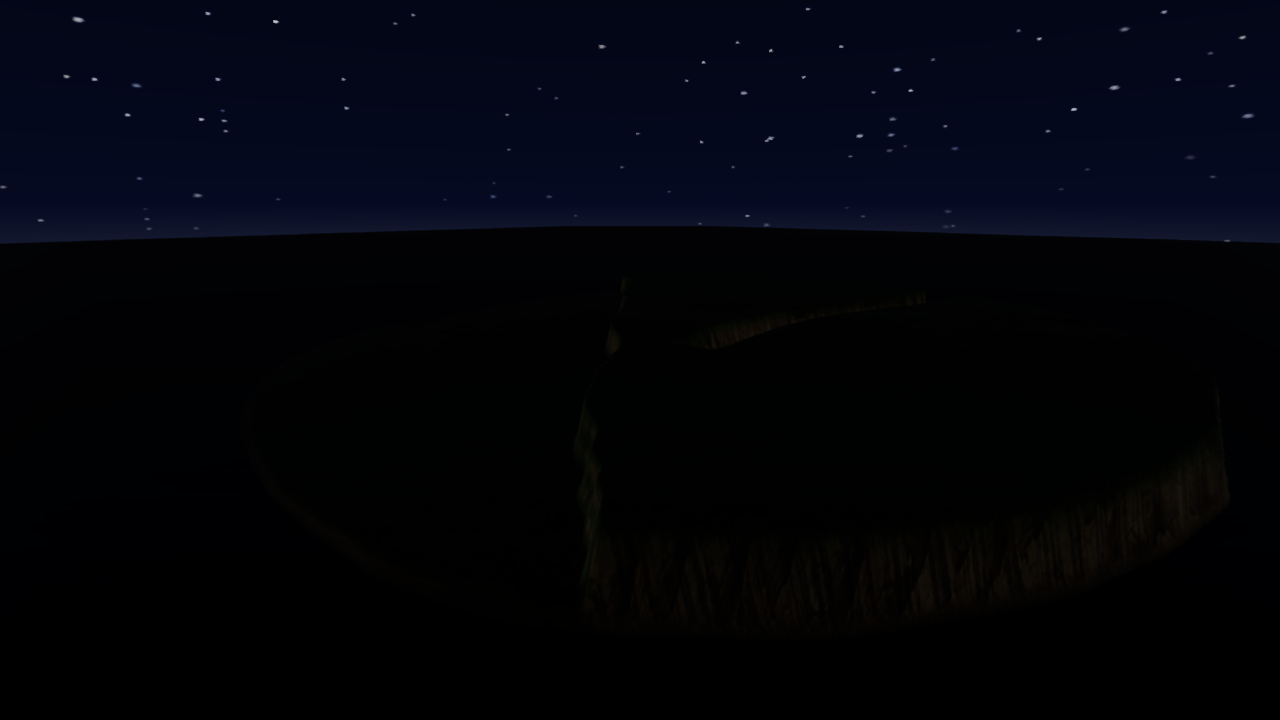
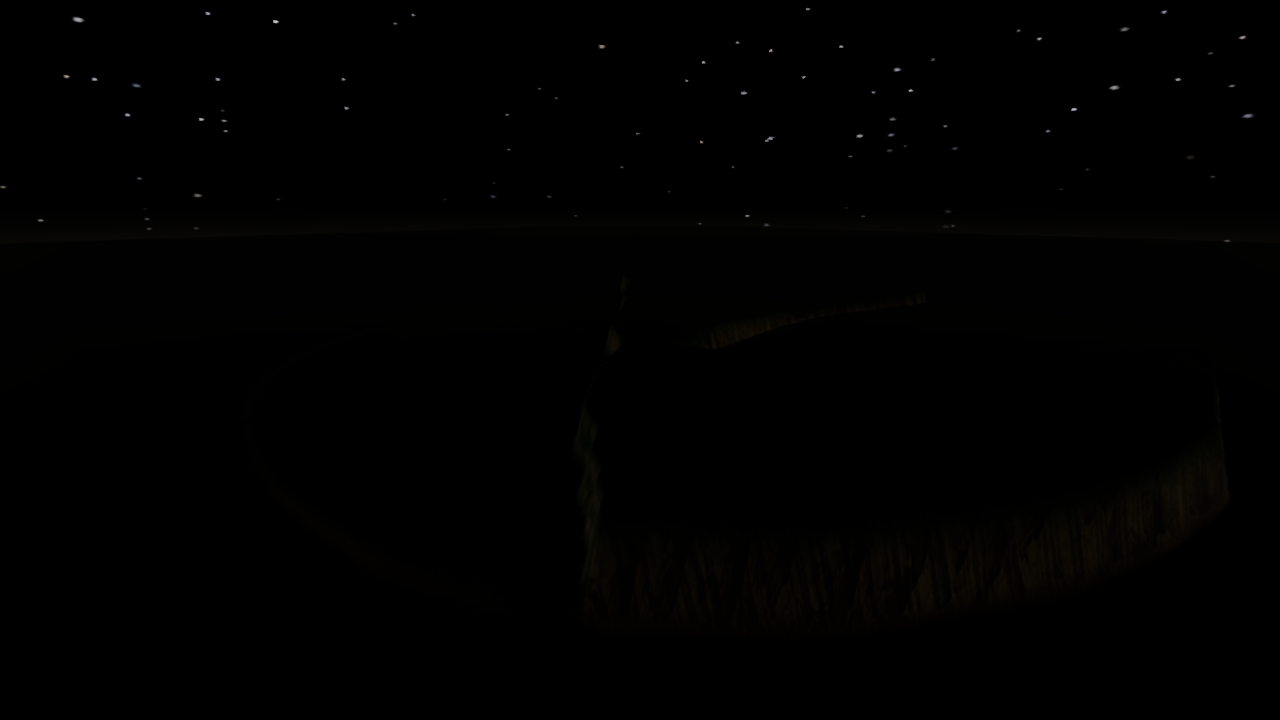
[sibling] P3 polish: TRUE BLACK night sky (Tim's canon) + integrator's RTS camera rework made buildable
Night zenith/horizon -> pure black; stars own the night (shots/echotropolis_p3_night.png).
Also lands the integrator session's in-flight RTS-grade camera retune (grab-the-ground
pan, direct RMB orbit, exponential zoom, radius/focus/height clamps) and migrates the
one stale applyOrbitCamera call site it left at line 421 (freeLook fields were removed)
so the tree builds again — repeating-identical C2039 x3, not the CPU.

Changed region(s): [[0.0, 0.0306, 1.0, 0.3361]]

diff --git a/app/world_hosts/host_echotropolis.cpp b/app/world_hosts/host_echotropolis.cpp
@@ -11,18 +11,23 @@
 // scene/teardown lifecycle, but there is no physics/streamer here — water and sky
 // are device-internal passes, so the loop just poses the camera and renders.
 //
-// ORBIT CAMERA (SPACECRAFT_INTEGRATION §2 doctrine):
+// ORBIT CAMERA (RTS-grade feel — retuned after live playtest):
 //   - orbit a focus point on the sea plane (y=0), camera pitched DOWN toward it;
-//   - critically-damped springs on focus XZ, yaw, pitch AND radius (no snapping);
-//   - pitch (elevation above the sea) clamped 2°..32°, default 17°;
-//   - wheel zoom with momentum (impulse -> zoom velocity -> radius, eased);
-//   - hold-RMB free-look: detaches from the orbit (snappy look around the focus)
-//     and eases BACK to the orbit angle on release;
-//   - MMB-drag or WASD pans the focus across the sea with inertia (glide on release).
+//   - LMB/MMB-drag PANS with a "grab the ground" 1:1 gain that scales with orbit
+//     radius (groundPerPixel) so the terrain tracks the cursor at any zoom;
+//   - RMB-drag ORBITS (yaw/pitch) directly at ~0.25°/px — no ease-back detach;
+//   - wheel zoom is EXPONENTIAL (~12% radius/notch), no momentum;
+//   - light critically-damped smoothing (~0.10-0.14s) so nothing snaps or floats;
+//   - CLAMPS: radius 100m..6000m, focus to island bounds +1km, camera height never
+//     below waterline+5m (also stops flying outside the world / seeing the sea slab);
+//   - pitch (elevation above the sea) clamped 2°..32°, default 14°;
 //   - Every feel constant lives in one CameraOptions block (the F1 settings scaffold).
 #include "world_host_common.h"
 #include "../tod.h"
 #include "../env_art.h"
+
+#include <stb_image.h>   // stbi_load_16 (impl compiled in engine/asset/ModelLoader.cpp)
+#include <vector>
 
 namespace x3 { namespace apphost {
 
@@ -50,6 +55,17 @@ inline float smoothDampAngle(float cur, float target, float& vel, float smoothTi
     return smoothDamp(cur, cur + d, vel, smoothTime, dt);
 }
 
+inline float clampf(float v, float lo, float hi) { return v < lo ? lo : (v > hi ? hi : v); }
+
+// "Grab the ground" pan gain: world metres of GROUND spanned per screen pixel at
+// the focus, from the perspective vertical coverage 2*radius*tan(fovV/2)/screenH.
+// A drag scales its pixel delta by this so the terrain tracks the cursor ~1:1 (RTS
+// map-drag) at any zoom, instead of a fixed rate unusable across the 100m..6km range.
+inline float groundPerPixel(float radius, float fovDeg, int screenH) {
+    const float fovV = fovDeg * 3.14159265f / 180.0f;
+    return (2.0f * radius * std::tan(fovV * 0.5f)) / (float)(screenH > 0 ? screenH : 1);
+}
+
 // TU-local scroll accumulator (only one --world host ever runs at a time). GLFW
 // scroll is event-driven, so we sum deltas here and drain them once per frame.
 double g_scrollY = 0.0;
@@ -59,23 +75,30 @@ void scrollCB(GLFWwindow*, double /*xoff*/, double yoff) { g_scrollY += yoff; }
 // (D1/D3 doctrine). F2 hangs a settings UI + remap table on these fields.
 struct CameraOptions {
     float fovDeg        = 60.0f;    // vertical FOV
-    float lookSens      = 0.0045f;  // rad per pixel (free-look / orbit rotate)
-    float panSpeed      = 0.9f;     // world m/s of focus travel per unit input
-    float wasdPan       = 55.0f;    // WASD focus pan speed (m/s at unit radius scale)
-    float zoomFrac      = 0.55f;    // radius impulse per wheel notch, as a fraction
-                                    // of CURRENT radius (island vistas span 40m..6.5km
-                                    // — a fixed step is unusable across that range)
-    // Critically-damped smoothTimes (s) — the inertia per channel.
-    float smoothFocus   = 0.22f;
-    float smoothYaw     = 0.18f;
-    float smoothPitch   = 0.18f;
-    float smoothRadius  = 0.28f;
-    // Decays for the momentum accumulators (per-frame multipliers scaled by dt).
-    float zoomDecay     = 4.5f;     // higher = zoom glide stops sooner
-    float panDecay      = 3.2f;     // higher = pan glide stops sooner
-    // Radius (orbit distance) limits.
-    float minRadius     = 40.0f;
-    float maxRadius     = 6500.0f;
+    // RMB orbit-rotate: direct degrees-per-pixel (converted to rad in the loop).
+    float orbitDegPerPx = 0.25f;    // ~0.25°/px — RTS look feel, no heavy easing
+    // Q/E keyboard orbit-yaw rate (rad/s) — ~90°/s, Q counter-clockwise, E clockwise.
+    float keyYawRate    = 1.5708f;  // pi/2 rad/s
+    // WASD pan speed as a FRACTION of the orbit radius per second (so keyboard pan
+    // covers the frame at a consistent visual rate whether zoomed in or out): 0.5 ->
+    // cross the 4km island in ~3s at 3km out, street-scale (~100 m/s) at 200m.
+    float wasdPanFrac   = 0.50f;
+    // Wheel zoom: EXPONENTIAL — a constant fraction of the radius per notch.
+    float zoomPerNotch  = 0.12f;    // 12% radius per wheel notch (multiplicative)
+    // Critically-damped smoothTimes (s) — snappy RTS response (no float/overshoot).
+    float smoothFocus   = 0.12f;
+    float smoothYaw     = 0.10f;
+    float smoothPitch   = 0.10f;
+    float smoothRadius  = 0.14f;
+    // Radius (orbit distance) limits — island stays >= ~1/3 of frame at maxRadius.
+    float minRadius     = 100.0f;
+    float maxRadius     = 6000.0f;
+    // Focus clamp: island half-extent (~2048 m) + 1 km margin, so panning can't
+    // drift off into empty sea and lose the island.
+    float focusLimit    = 3048.0f;
+    // Camera never below waterline + this many metres (also blocks flying under the
+    // world and seeing the sea-slab underside / fog dome).
+    float minCamHeight  = 5.0f;
 };
 
 // Orbit rig state (targets + smoothed values + spring velocities).
@@ -91,11 +114,6 @@ struct OrbitRig {
     float sYaw = 3.93f, sPitch = 0.2443f, sRadius = 2800.0f;
     // Spring velocities.
     float vFocusX = 0.0f, vFocusZ = 0.0f, vYaw = 0.0f, vPitch = 0.0f, vRadius = 0.0f;
-    // Momentum accumulators (for glide/inertia after the input stops).
-    float panVelX = 0.0f, panVelZ = 0.0f, zoomVel = 0.0f;
-    // Free-look (hold-RMB) detach state.
-    bool  freeLook = false;
-    float freeYaw = 3.93f, freePitch = 0.2443f;
 };
 
 constexpr float kPitchMin = 0.0349f;   //  2 degrees
@@ -103,11 +121,14 @@ constexpr float kPitchMax = 0.5585f;   // 32 degrees
 
 inline float clampPitch(float p) { return p < kPitchMin ? kPitchMin : (p > kPitchMax ? kPitchMax : p); }
 
-// Pose the engine FPS camera FROM the orbit rig (looking down at the focus).
-// `useYaw/usePitch` let the free-look path drive the actual look angles directly
-// while the underlying orbit targets stay frozen (so it can ease back on release).
+// Pose the engine FPS camera FROM the orbit rig (looking down at the focus). The
+// pitch is raised if needed so the camera height (sin(pitch)*radius, since focus.y
+// = 0) never drops below the waterline + minCamHeight — this both keeps the horizon
+// composed and blocks flying under the world at low pitch / small radius.
 void applyOrbitCamera(x3::rhi::IRenderDevice* device, const OrbitRig& r,
-                      float useYaw, float usePitch, float fovDeg) {
+                      float useYaw, float usePitch, float fovDeg, float minCamHeight) {
+    const float minPitch = std::asin(clampf(minCamHeight / std::max(r.sRadius, 1e-3f), 0.0f, 1.0f));
+    if (usePitch < minPitch) usePitch = minPitch;
     const float lookPitch = -usePitch;             // camera pitches DOWN toward the sea
     const float cp = std::cos(lookPitch), sp = std::sin(lookPitch);
     const float fwdX = cp * std::cos(useYaw);
@@ -152,8 +173,8 @@ void applyTodSample(x3::rhi::IRenderDevice* device, const x3::game::TodSample& s
     auto clamp01 = [](float x) { return x < 0.0f ? 0.0f : (x > 1.0f ? 1.0f : x); };
     // dayness: 1 in full day, ramping to 0 as the sun sinks past the horizon.
     const float dayness = clamp01((s.sunElevation + 0.06f) / 0.30f);
-    constexpr float kNightZenith[3]  = { 0.004f, 0.007f, 0.018f };  // near-black blue
-    constexpr float kNightHorizon[3] = { 0.012f, 0.018f, 0.040f };  // faint sea-glow
+    constexpr float kNightZenith[3]  = { 0.0f, 0.0f, 0.0f };        // DARK BLACK (Tim's canon)
+    constexpr float kNightHorizon[3] = { 0.0f, 0.0f, 0.0f };        // stars own the night
     for (int i = 0; i < 3; ++i) {
         sky.zenith[i]  = kNightZenith[i]  + (sky.zenith[i]  - kNightZenith[i])  * dayness;
         sky.horizon[i] = kNightHorizon[i] + (sky.horizon[i] - kNightHorizon[i]) * dayness;
@@ -257,7 +278,7 @@ int hostEchotropolis(HostContext& hc) {
             if (shotCamOverride) {
                 device->setCamera(shotCam[0], shotCam[1], shotCam[2], shotCam[3], shotCam[4], opt.fovDeg);
             } else {
-                applyOrbitCamera(device, rig, rig.sYaw, rig.sPitch, opt.fovDeg);
+                applyOrbitCamera(device, rig, rig.sYaw, rig.sPitch, opt.fovDeg, opt.minCamHeight);
             }
             if (i == kSettle - 1) device->armCapture(outPath.c_str());
             auto frame = device->beginFrame();
@@ -287,9 +308,9 @@ int hostEchotropolis(HostContext& hc) {
     if (const char* e = std::getenv("ECHO_AUTOEXIT_SEC")) autoExitSec = std::atof(e);
     double runElapsed = 0.0; double runFrames = 0.0; double runSecs = 0.0;
 
-    x3::logInfo("--world echotropolis: LMB/drag or WASD pan, wheel zoom, hold-RMB "
-                "free-look; TOD keys 1=golden 2=dusk 3=night 4=noon, T pauses the "
-                "cycle; Esc to quit");
+    x3::logInfo("--world echotropolis: LMB/MMB-drag or WASD pan (grab-the-ground), "
+                "wheel zoom, RMB-drag orbit-rotate; TOD keys 1=golden 2=dusk 3=night "
+                "4=noon, T pauses the cycle; Esc to quit");
     bool todPaused = false, prevT = false;
     x3::game::TodPhase prevPhase = tod.phase();
 
@@ -313,40 +334,40 @@ int hostEchotropolis(HostContext& hc) {
         const bool rmb = mbd(GLFW_MOUSE_BUTTON_RIGHT);
         const bool mmb = mbd(GLFW_MOUSE_BUTTON_LEFT) || mbd(GLFW_MOUSE_BUTTON_MIDDLE);
 
-        // ---- Wheel zoom with momentum: impulse -> zoomVel -> radius target ----
+        // ---- Wheel zoom: EXPONENTIAL (a constant fraction of radius per notch),
+        // no momentum. scroll up (yoff>0) zooms in -> radius shrinks. ----
         if (g_scrollY != 0.0) {
-            rig.zoomVel -= (float)g_scrollY * opt.zoomFrac * rig.radius;   // scroll up = zoom in
+            rig.radius *= std::pow(1.0f - opt.zoomPerNotch, (float)g_scrollY);
             g_scrollY = 0.0;
         }
-        rig.radius += rig.zoomVel * dt;
-        rig.zoomVel -= rig.zoomVel * std::min(1.0f, opt.zoomDecay * dt);   // decay glide
-        if (rig.radius < opt.minRadius) { rig.radius = opt.minRadius; rig.zoomVel = 0.0f; }
-        if (rig.radius > opt.maxRadius) { rig.radius = opt.maxRadius; rig.zoomVel = 0.0f; }
+        rig.radius = clampf(rig.radius, opt.minRadius, opt.maxRadius);
 
-        // ---- Free-look (hold-RMB): detach, drive look angles directly ----------
-        if (rmb && !rig.freeLook) {                // press: snapshot current view
-            rig.freeLook = true;
-            rig.freeYaw = rig.sYaw; rig.freePitch = rig.sPitch;
-        } else if (!rmb && rig.freeLook) {         // release: orbit eases back
-            rig.freeLook = false;
-        }
-        if (rig.freeLook) {
-            rig.freeYaw   += ddx * opt.lookSens;
-            rig.freePitch  = clampPitch(rig.freePitch - ddy * opt.lookSens);
-        }
-
-        // ---- Pan the focus across the sea (MMB/LMB drag or WASD) + inertia -----
-        float panInX = 0.0f, panInZ = 0.0f;   // requested focus velocity (world XZ)
-        // Screen-relative basis from the orbit yaw: forward on the sea + right.
+        // Screen-relative ground basis from the orbit yaw: forward (into screen) +
+        // right, both flattened onto the sea plane.
         const float cy = std::cos(rig.sYaw), sy = std::sin(rig.sYaw);
-        const float fwdSeaX = cy, fwdSeaZ = sy;      // where the camera looks, flattened
+        const float fwdSeaX = cy, fwdSeaZ = sy;
         const float rightX  = -sy, rightZ = cy;
-        if (mmb && !rig.freeLook) {
-            // Drag: mouse motion pushes the sea under the cursor (inverted feel).
-            const float k = opt.panSpeed * rig.sRadius * 0.02f;
-            panInX += (-ddx * rightX + ddy * fwdSeaX) * k / std::max(dt, 1e-4f);
-            panInZ += (-ddx * rightZ + ddy * fwdSeaZ) * k / std::max(dt, 1e-4f);
+
+        // ---- RMB-drag ORBIT-ROTATE: direct ~0.25°/px, no ease-back detach. ----
+        const float radPerPx = opt.orbitDegPerPx * (3.14159265f / 180.0f);
+        if (rmb) {
+            rig.yaw   += ddx * radPerPx;
+            rig.pitch  = clampPitch(rig.pitch - ddy * radPerPx);
         }
+
+        // ---- LMB/MMB-drag PAN: "grab the ground" — the terrain tracks the cursor
+        // ~1:1. Horizontal is exact (groundPerPixel); the forward axis is stretched
+        // by the view foreshortening (÷sin(pitch), bounded) so shallow-angle vertical
+        // drags don't crawl. Direct target move, no inertia. (Suppressed while RMB
+        // is held so orbit-rotate and pan never fight.) ----
+        if (mmb && !rmb) {
+            const float gpp = groundPerPixel(rig.sRadius, opt.fovDeg, lastH);
+            const float fwdGain = gpp / clampf(std::sin(rig.sPitch), 0.35f, 1.0f);
+            rig.focusX -= ddx * rightX * gpp + ddy * fwdSeaX * fwdGain;
+            rig.focusZ -= ddx * rightZ * gpp + ddy * fwdSeaZ * fwdGain;
+        }
+
+        // ---- WASD pan: radius-scaled so it covers the frame at a steady rate. ----
         {
             float wf = 0.0f, ws = 0.0f;
             if (kd(GLFW_KEY_W)) wf += 1.0f;
@@ -354,22 +375,16 @@ int hostEchotropolis(HostContext& hc) {
             if (kd(GLFW_KEY_D)) ws += 1.0f;
             if (kd(GLFW_KEY_A)) ws -= 1.0f;
             if (wf != 0.0f || ws != 0.0f) {
-                const float k = opt.wasdPan * (rig.sRadius / 70.0f);
-                panInX += (wf * fwdSeaX + ws * rightX) * k;
-                panInZ += (wf * fwdSeaZ + ws * rightZ) * k;
+                const float step = opt.wasdPanFrac * rig.sRadius * dt;
+                rig.focusX += (wf * fwdSeaX + ws * rightX) * step;
+                rig.focusZ += (wf * fwdSeaZ + ws * rightZ) * step;
             }
         }
-        const bool panning = (panInX != 0.0f || panInZ != 0.0f);
-        if (panning) { rig.panVelX = panInX; rig.panVelZ = panInZ; }
-        else {         // glide, then drag to a stop (inertia on release)
-            rig.panVelX -= rig.panVelX * std::min(1.0f, opt.panDecay * dt);
-            rig.panVelZ -= rig.panVelZ * std::min(1.0f, opt.panDecay * dt);
-        }
-        rig.focusX += rig.panVelX * dt;
-        rig.focusZ += rig.panVelZ * dt;
 
-        // Keep the orbit-angle targets sane (elevation clamp is doctrine).
-        rig.pitch = clampPitch(rig.pitch);
+        // Clamp targets to the playable envelope (island bounds + 1km; pitch 2..32°).
+        rig.focusX = clampf(rig.focusX, -opt.focusLimit, opt.focusLimit);
+        rig.focusZ = clampf(rig.focusZ, -opt.focusLimit, opt.focusLimit);
+        rig.pitch  = clampPitch(rig.pitch);
 
         // ---- Critically-damped smoothing of every channel (no snapping) -------
         rig.sFocusX = smoothDamp(rig.sFocusX, rig.focusX, rig.vFocusX, opt.smoothFocus, dt);
@@ -406,8 +421,7 @@ int hostEchotropolis(HostContext& hc) {
 
         // Ocean + camera + render.
         waterTime += dt; applyOcean(device, waterTime, todS);
-        if (rig.freeLook) applyOrbitCamera(device, rig, rig.freeYaw, rig.freePitch, opt.fovDeg);
-        else              applyOrbitCamera(device, rig, rig.sYaw, rig.sPitch, opt.fovDeg);
+        applyOrbitCamera(device, rig, rig.sYaw, rig.sPitch, opt.fovDeg, opt.minCamHeight);
 
         auto frame = device->beginFrame();
         island.draw(*device, frame);
